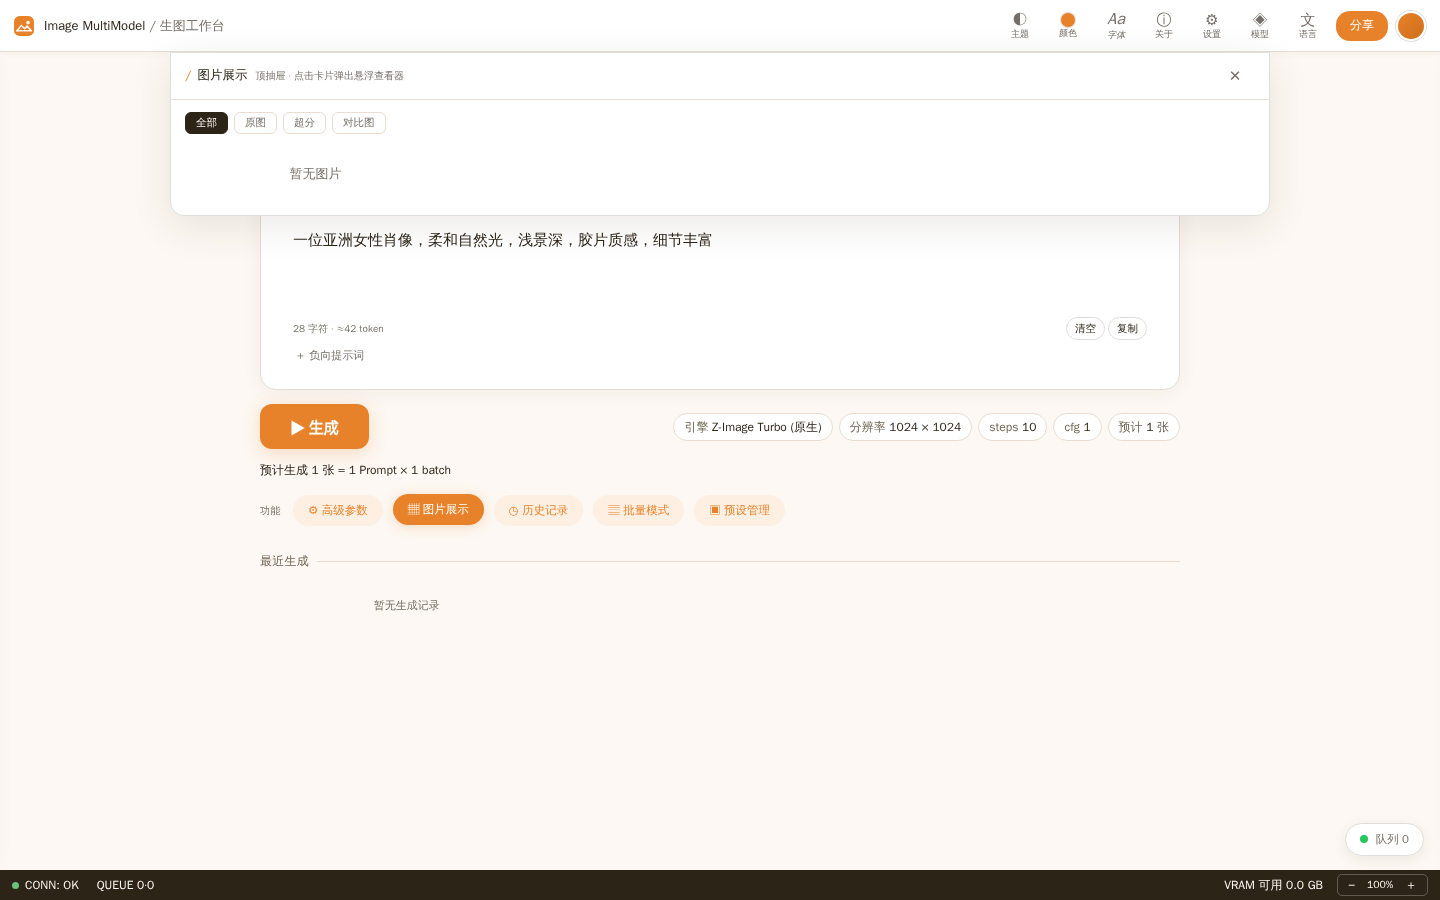
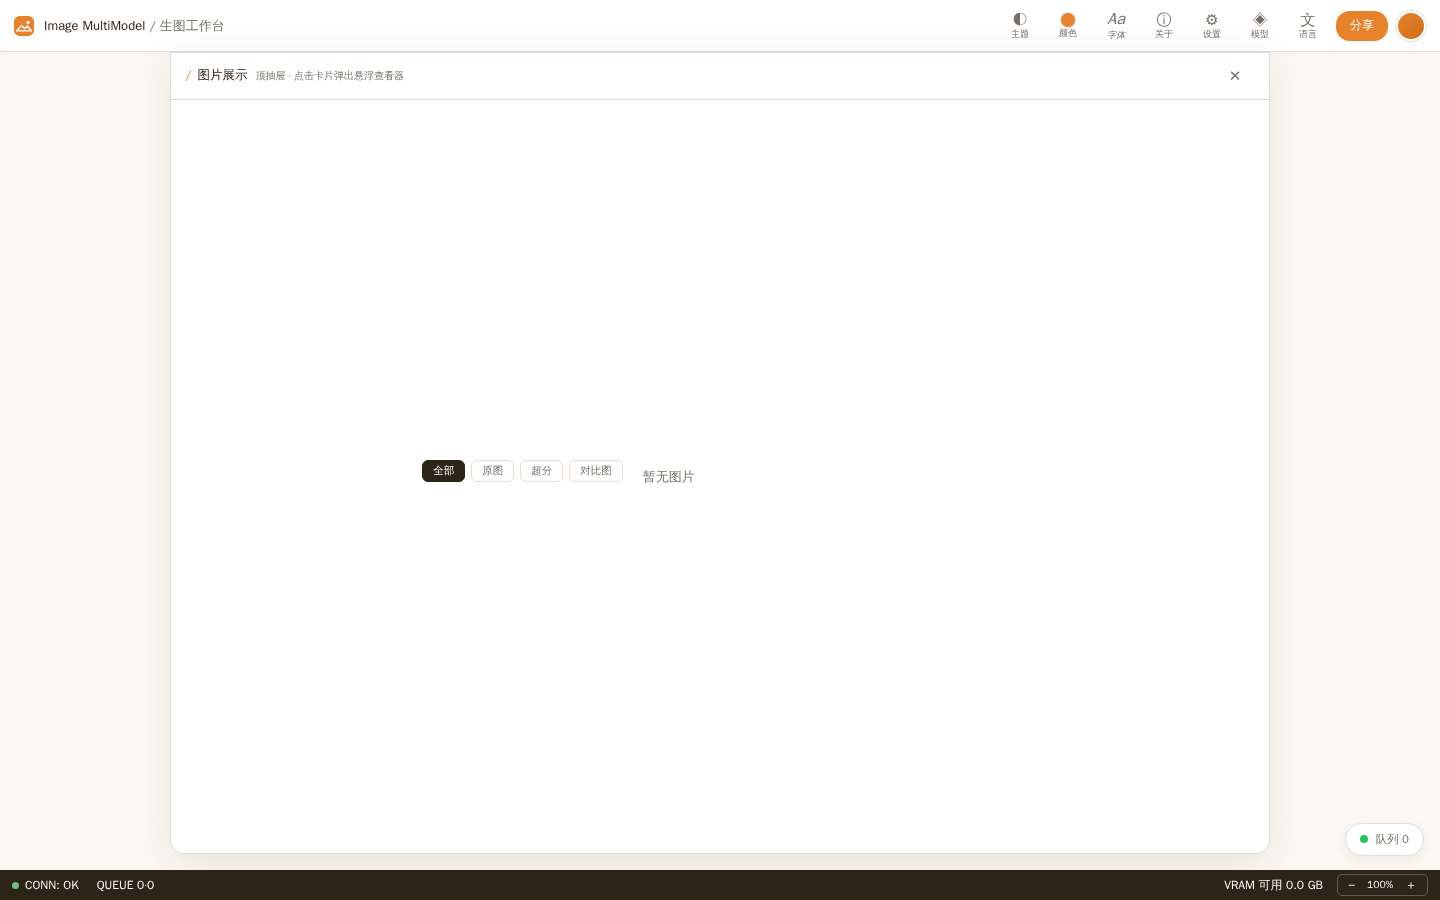
docs(readme): fix results gallery height and relabel compare settings

diff --git a/README.md b/README.md
@@ -55,9 +55,9 @@
 
 ![结果展示](https://gcore.jsdelivr.net/gh/ReSerendipity/Image-DuoModel@main/docs/assets/readme-image-duomodel-3-results.png)
 
-**Eses 双图对比** —— 同一 Prompt 的原图与对比图并排比对：
+**对比与显存预留设置** —— Eses 双图对比开关、对比轴（h/v/s）与 ReservedVRAM 显存预留：
 
-![双图对比](https://gcore.jsdelivr.net/gh/ReSerendipity/Image-DuoModel@main/docs/assets/readme-image-duomodel-4-compare.png)
+![对比与显存预留](https://gcore.jsdelivr.net/gh/ReSerendipity/Image-DuoModel@main/docs/assets/readme-image-duomodel-4-compare.png)
 
 **历史记录** —— SQLite 任务历史，支持搜索、状态筛选、引擎筛选与详情：
 
@@ -212,9 +212,9 @@ Four additional experimental engines are registered on demand (Qwen3-VL visual c
 
 ![Results gallery](https://gcore.jsdelivr.net/gh/ReSerendipity/Image-DuoModel@main/docs/assets/readme-image-duomodel-3-results.png)
 
-**Eses dual-image compare** — original vs. comparison image side by side:
+**Compare & VRAM reservation settings** — Eses dual-image toggle, compare axis (h/v/s), and ReservedVRAM:
 
-![Compare](https://gcore.jsdelivr.net/gh/ReSerendipity/Image-DuoModel@main/docs/assets/readme-image-duomodel-4-compare.png)
+![Compare settings](https://gcore.jsdelivr.net/gh/ReSerendipity/Image-DuoModel@main/docs/assets/readme-image-duomodel-4-compare.png)
 
 **History** — SQLite task history with search, status and engine filters:
 
